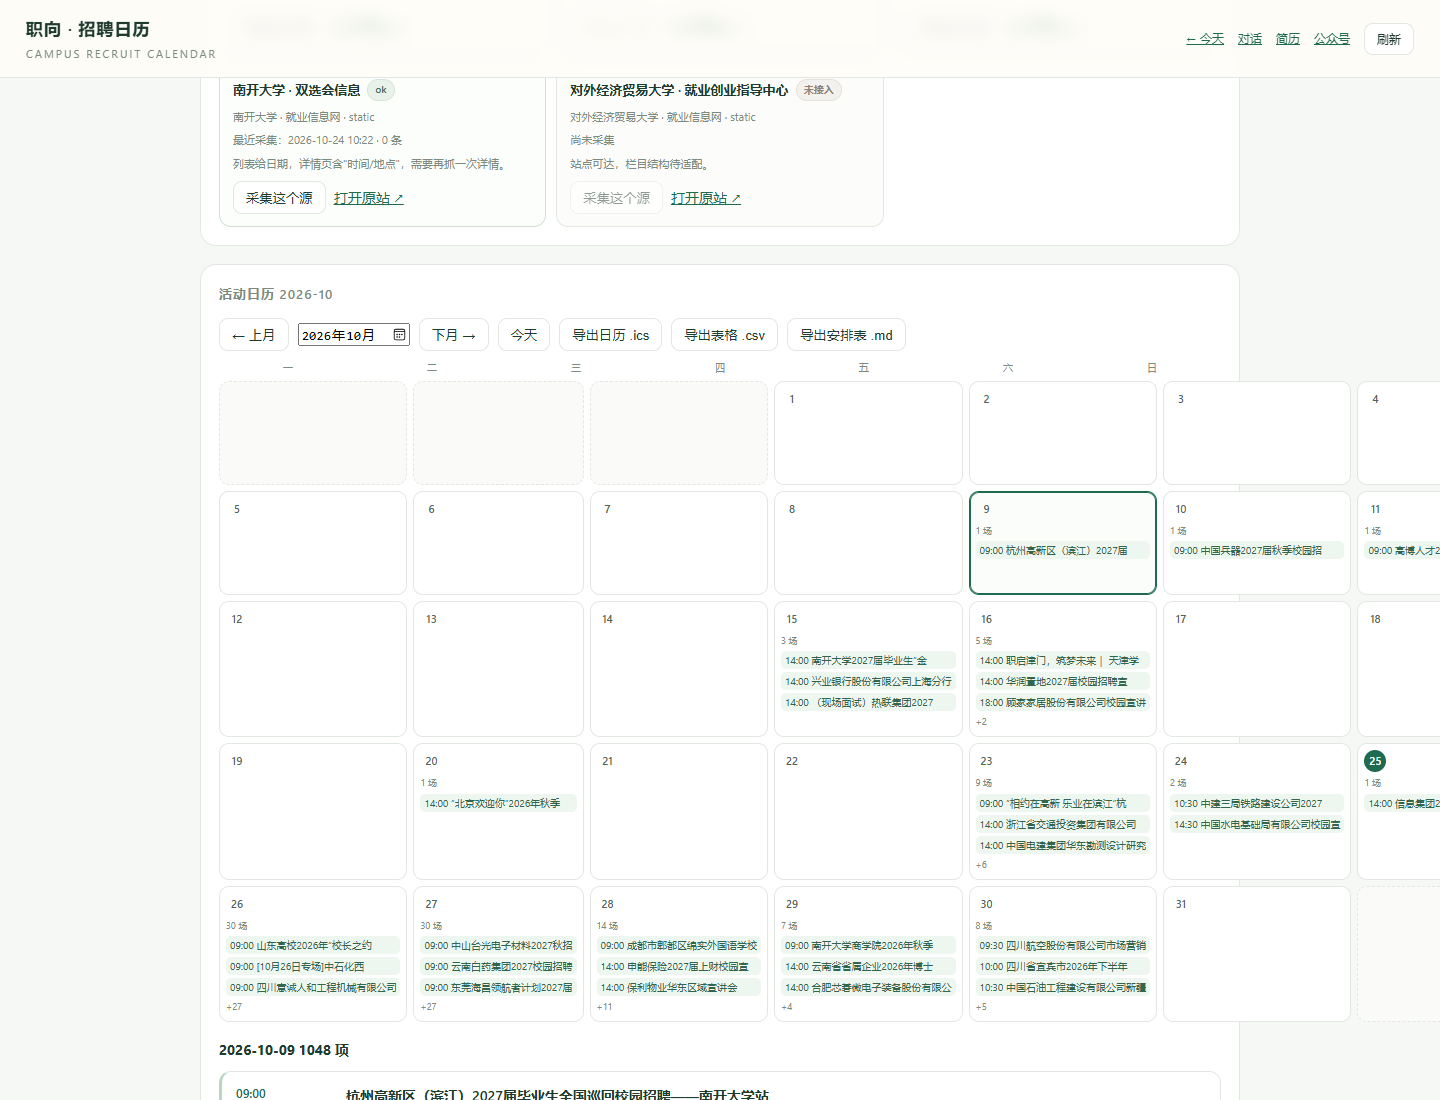
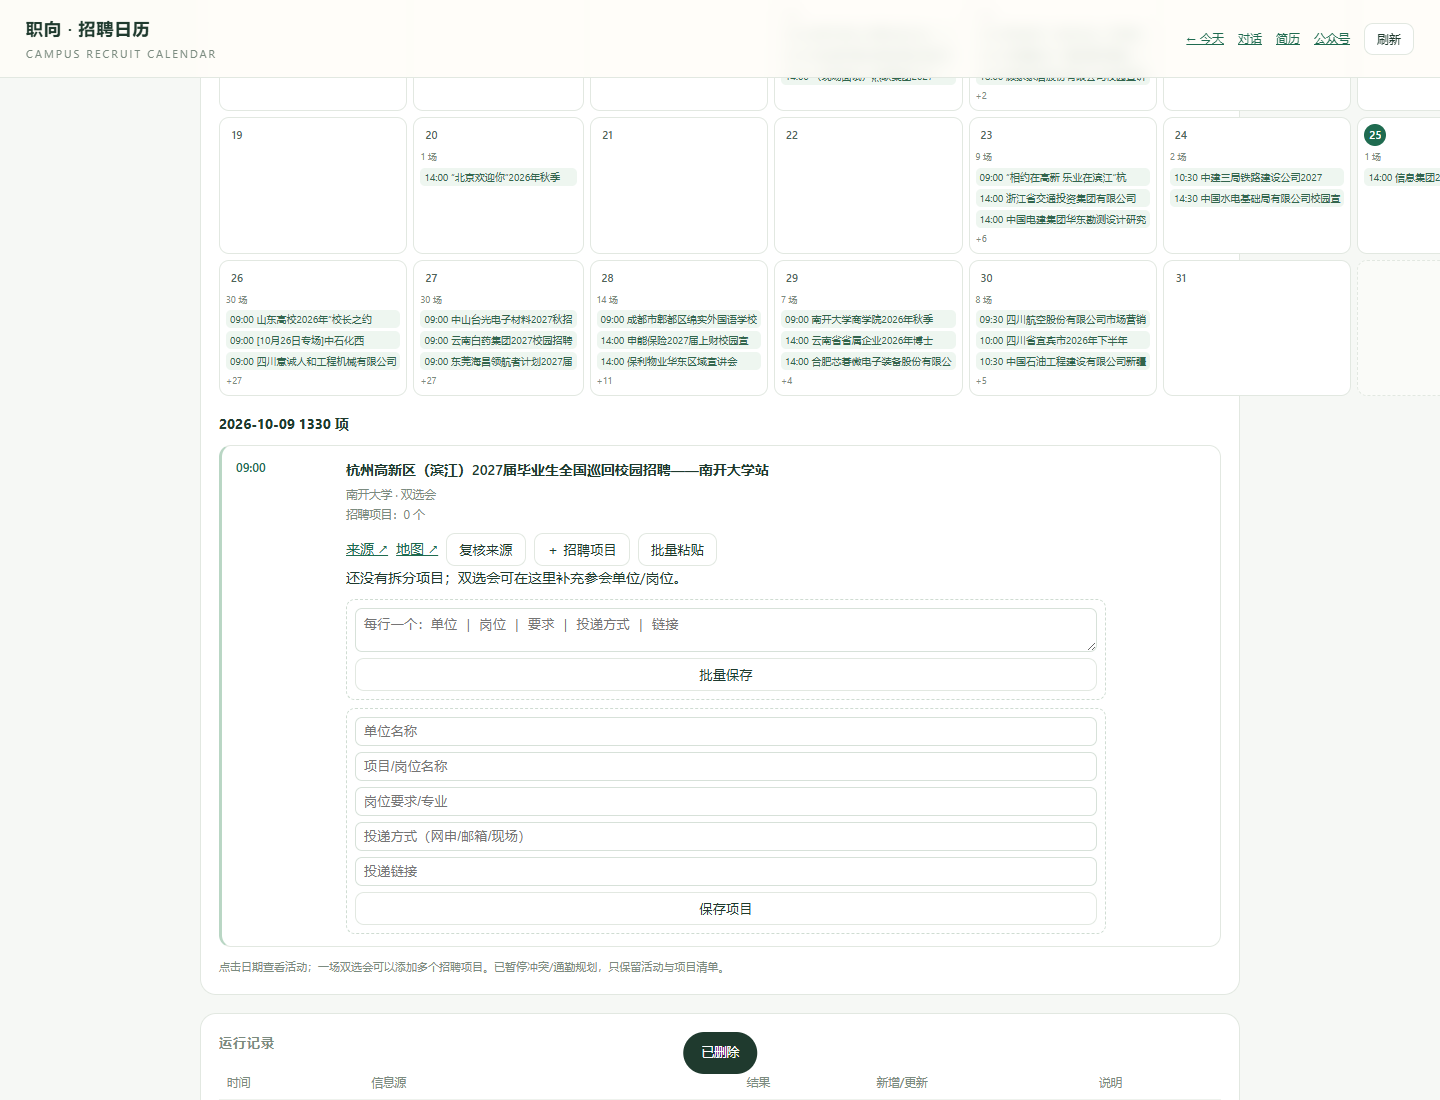
feat(recruit): bulk paste projects into an event
- add POST /api/recruit/projects/bulk (up to 100 lines)
- calendar event card adds bulk paste form
- 110 tests; docs 20 updated
- tag v3.1.2

diff --git a/src/web/recruit.html b/src/web/recruit.html
@@ -75,7 +75,8 @@ main{max-width:1080px;margin:0 auto;padding:22px 20px 80px}
 .project{border-left:3px solid #b9d6c4;background:#fbfdfb;padding:7px 9px;margin:6px 0;display:flex;justify-content:space-between;gap:8px;font-size:12px}
 .project .hint{font-size:10.5px;color:var(--muted)}
 .project-form{border:1px dashed #cfdcd2;border-radius:9px;padding:8px;margin-top:8px;display:grid;gap:6px}
-.project-form input{padding:6px 8px;border:1px solid #d7e1d9;border-radius:7px;font:12px inherit;width:100%}
+.project-form input,.bulk-form textarea{padding:6px 8px;border:1px solid #d7e1d9;border-radius:7px;font:12px inherit;width:100%}
+.bulk-form{border:1px dashed #cfdcd2;border-radius:9px;padding:8px;margin-top:8px;display:grid;gap:6px}
 @media(max-width:720px){.cal-cell{min-height:78px;padding:4px}.cal-chip{font-size:9px}.cal-head{font-size:9px}}
 @media(max-width:720px){.stats{grid-template-columns:repeat(2,1fr)}.ev{grid-template-columns:1fr}.ev .side{flex-direction:row;align-items:center}.ev time{font-size:12px}main{padding:16px 12px 70px}}
 dialog#manual-dialog{border:1px solid var(--line);border-radius:16px;padding:0;width:min(680px,92vw);max-height:88vh;overflow:auto;background:#fff;color:var(--ink);box-shadow:0 24px 70px #1f3a2e33}
@@ -246,7 +247,7 @@ function renderDayDetail(){
   const events=day.events.map(e=>{
     const projects=(e.projects||[]).map(p=>'<div class="project"><div><b>'+esc(p.company||'未填单位')+'</b> '+esc(p.title||'')+'<div class="hint">'+esc(p.positions||'')+(p.applyMode?' · '+esc(p.applyMode):'')+(p.applyUrl?' · '+esc(p.applyUrl):'')+'</div></div><button data-del-project="'+esc(p.id)+'">删除</button></div>').join('');
     const flags=[e.status==='possibly_removed'?'<span class="flag bad">可能撤下</span>':'',e.interviewStage?'<span class="flag">'+esc([...new Set([e.interviewStage,e.interviewType].filter(Boolean))].join(' · '))+'</span>':'',(e.crossSources||[]).length>1?'<span class="flag ok">多源收录</span>':''].filter(Boolean).join(' ');
-    return '<article class="ev"><time>'+esc(fmtTime(e.startAt))+(e.endAt?'–'+esc(fmtTime(e.endAt)):'')+'</time><div><p class="title">'+esc(e.title)+'</p><div class="meta">'+(e.company?'<b><a href="/companies?name='+encodeURIComponent(e.company)+'">'+esc(e.company)+'</a></b> · ':'')+esc(e.school)+' · '+esc(e.kind)+(e.venue?'<br>地点：'+esc(e.venue):'')+'<br>招聘项目：'+(e.projects||[]).length+' 个</div><div class="row">'+(e.sourceUrl?'<a href="'+esc(e.sourceUrl)+'" target="_blank" rel="noopener noreferrer">来源 ↗</a>':'')+'<a href="'+esc(mapFor(e))+'" target="_blank" rel="noopener noreferrer">地图 ↗</a><button data-verify="'+esc(e.id)+'">复核来源</button><button data-add-project="'+esc(e.id)+'">＋ 招聘项目</button></div><div class="projects">'+(projects||'<div class="hint">还没有拆分项目；双选会可在这里补充参会单位/岗位。</div>')+'</div><div class="project-form" data-form="'+esc(e.id)+'" hidden><input data-p-company placeholder="单位名称"><input data-p-title placeholder="项目/岗位名称"><input data-p-positions placeholder="岗位要求/专业"><input data-p-apply placeholder="投递方式（网申/邮箱/现场）"><input data-p-url placeholder="投递链接"><button data-save-project="'+esc(e.id)+'">保存项目</button></div></div><div class="side">'+flags+'</div></article>';
+    return '<article class="ev"><time>'+esc(fmtTime(e.startAt))+(e.endAt?'–'+esc(fmtTime(e.endAt)):'')+'</time><div><p class="title">'+esc(e.title)+'</p><div class="meta">'+(e.company?'<b><a href="/companies?name='+encodeURIComponent(e.company)+'">'+esc(e.company)+'</a></b> · ':'')+esc(e.school)+' · '+esc(e.kind)+(e.venue?'<br>地点：'+esc(e.venue):'')+'<br>招聘项目：'+(e.projects||[]).length+' 个</div><div class="row">'+(e.sourceUrl?'<a href="'+esc(e.sourceUrl)+'" target="_blank" rel="noopener noreferrer">来源 ↗</a>':'')+'<a href="'+esc(mapFor(e))+'" target="_blank" rel="noopener noreferrer">地图 ↗</a><button data-verify="'+esc(e.id)+'">复核来源</button><button data-add-project="'+esc(e.id)+'">＋ 招聘项目</button><button data-bulk-project="'+esc(e.id)+'">批量粘贴</button></div><div class="projects">'+(projects||'<div class="hint">还没有拆分项目；双选会可在这里补充参会单位/岗位。</div>')+'</div><div class="bulk-form" data-bulk="'+esc(e.id)+'" hidden><textarea data-bulk-text placeholder="每行一个：单位 | 岗位 | 要求 | 投递方式 | 链接"></textarea><button data-save-bulk="'+esc(e.id)+'">批量保存</button></div><div class="project-form" data-form="'+esc(e.id)+'" hidden><input data-p-company placeholder="单位名称"><input data-p-title placeholder="项目/岗位名称"><input data-p-positions placeholder="岗位要求/专业"><input data-p-apply placeholder="投递方式（网申/邮箱/现场）"><input data-p-url placeholder="投递链接"><button data-save-project="'+esc(e.id)+'">保存项目</button></div></div><div class="side">'+flags+'</div></article>';
   }).join('');
   el('#day-detail').innerHTML='<h3 style="font-size:14px;margin:0 0 8px">'+esc(day.date)+' <span class="hint">'+events.length+' 项</span></h3>'+events;
 }
@@ -332,6 +333,8 @@ el('#m-save').onclick=async()=>{
 };
 document.addEventListener('click',async e=>{
   const cell=e.target.closest('[data-date]');if(cell&&!cell.classList.contains('blank')){selectedDate=cell.dataset.date;renderCalendar();return}
+  const bulk=e.target.closest('[data-bulk-project]');if(bulk){const form=document.querySelector('[data-bulk="'+bulk.dataset.bulkProject+'"]');if(form)form.hidden=!form.hidden;return}
+  const saveBulk=e.target.closest('[data-save-bulk]');if(saveBulk){const form=saveBulk.closest('.bulk-form');try{const r=await api('projects/bulk',{eventId:saveBulk.dataset.saveBulk,text:form.querySelector('[data-bulk-text]').value});toast('已保存 '+r.count+' 个项目');await loadCalendar(calendar.month)}catch(err){toast(err.message)}return}
   const add=e.target.closest('[data-add-project]');if(add){const form=document.querySelector('[data-form="'+add.dataset.addProject+'"]');if(form)form.hidden=!form.hidden;return}
   const save=e.target.closest('[data-save-project]');if(save){const form=save.closest('.project-form');const eventId=save.dataset.saveProject;try{await api('projects',{eventId,company:form.querySelector('[data-p-company]').value,title:form.querySelector('[data-p-title]').value,positions:form.querySelector('[data-p-positions]').value,applyMode:form.querySelector('[data-p-apply]').value,applyUrl:form.querySelector('[data-p-url]').value});toast('项目已保存');await loadCalendar(calendar.month)}catch(err){toast(err.message)}return}
   const del=e.target.closest('[data-del-project]');if(del){if(!confirm('删除这个招聘项目？'))return;try{await api('projects/'+del.dataset.delProject+'/delete',{});toast('已删除');await loadCalendar(calendar.month)}catch(err){toast(err.message)}return}

diff --git a/docs/plan/18-最终交付清单.md b/docs/plan/18-最终交付清单.md
@@ -1,7 +1,7 @@
-# 18 · 最终交付清单（v3.1.1）
+# 18 · 最终交付清单（v3.1.2）
 
 > 这一篇是“交作业 / 给别人演示”的总入口：现在有什么、证据在哪、怎么跑、怎么回退。
-> 更新：2026-10-25 ｜ 版本：`v3.1.1` ｜ 测试：109 项 ｜ 文档：00–20
+> 更新：2026-10-25 ｜ 版本：`v3.1.2` ｜ 测试：109 项 ｜ 文档：00–20
 
 ---
 
@@ -34,7 +34,7 @@
 | 技能 | 3 个技能包（行程规划已移除） | `src/skills/` |
 | 记忆 | 会话 / 画像 / 任务 | `src/agent/memory.mjs` |
 | 部署 | 局域网、Tailscale、Docker、备份 | `docs/14` |
-| 测试 | 18 套件、109 项 | `npm test` |
+| 测试 | 18 套件、110 项 | `npm test` |
 | 文档 | 00–20 + 截图 + 示例 | `docs/README.md` |
 
 ---
@@ -54,7 +54,7 @@
 | 2.3 日历地图 | 排班/通勤暂停；月历看板 + 项目 + 高德链接 + ICS/CSV/MD | `/recruit`；`docs/20` |
 | 3.1 简历/面试 | 简历多版本、JD、投递、题库、回答、Word | `/resume`；`docs/13` |
 | 多设备 | 局域网实测、Tailscale 文档、Dockerfile | `docs/14` |
-| 版本控制 | main/dev + 18 个标签 | `git tag`；`docs/CHANGELOG.md` |
+| 版本控制 | main/dev + 19 个标签 | `git tag`；`docs/CHANGELOG.md` |
 | 平台读取 | 7 站统一入口、BOSS about:blank 恢复、截图 OCR、系统浏览器兜底 | `docs/19`；`tests/platform.test.mjs` |
 | 一对多 | 活动下挂招聘项目，日历看板展示 | `docs/20`；`tests/projects.test.mjs` |
 
@@ -84,7 +84,7 @@ src/web     5 个页面
 
 ## 5. 验收证据
 
-- **109 项测试**通过（`node --test ...`，或 `npm test`）；
+- **110 项测试**通过（`node --test ...`，或 `npm test`）；
 - `node scripts/check.mjs`：测试 + 体检 + 数据库检查全绿；
 - 真实数据：141 场活动、115 场未来、7 所学校、8 个已接入源；9 个公众号账号；
 - 能力面板：12 工具 / 4 技能；
@@ -119,6 +119,7 @@ src/web     5 个页面
 | `v3.0.2` | 刷新工作台截图 |
 | `v3.1.0` | 7 个登录型网站、截图 OCR、公众号、日历/项目 |
 | `v3.1.1` | 元素点击打开结果、7 站连通性检查 |
+| `v3.1.2` | 批量粘贴招聘项目 |
 
 回退任意模块：
 

diff --git a/docs/plan/15-需求对照与演示.md b/docs/plan/15-需求对照与演示.md
@@ -166,7 +166,7 @@
 3. **日历/项目**（45 秒）：切到月历 → 点日期 → 展开活动 → 添加一个招聘项目 → 导出 ICS。
 4. **对话**（90 秒）：`/chat` 问“这周成都有哪些宣讲会” → 调用 `career_recruit_events` 按日历列活动与项目 → 再问“按这个 JD 改简历”。
 5. **材料**（60 秒）：`/resume` → 简历版本 → 从对话保存 → 下载 Word → 投递阶段 → 面试准备题库与回答。
-6. **可靠性与回退**（30 秒）：`npm test` 109 项；`git tag` 列表；一条命令回退。
+6. **可靠性与回退**（30 秒）：`npm test` 110 项；`git tag` 列表；一条命令回退。
 
 ---
 

diff --git a/README.md b/README.md
@@ -1,6 +1,6 @@
 # 职向 v3 · 大学生线下求职智能体
 
-> **当前状态：`v3.1.1`；登录型网站支持元素点击/截图 OCR/连通性检查，公众号与日历项目已上线。**
+> **当前状态：`v3.1.2`；支持批量粘贴招聘项目；登录型网站/公众号/日历功能已上线。**
 > 先看：[最终交付清单](docs/plan/18-最终交付清单.md) · [平台与公众号](docs/plan/19-平台与公众号.md) · [日历与项目](docs/plan/20-日历与招聘项目.md) · [CHANGELOG](docs/plan/CHANGELOG.md)
 > 数据目录：`%LOCALAPPDATA%\ZhiXiang`（首次启动会自动迁移旧 `.data`）
 

diff --git a/docs/plan/CHANGELOG.md b/docs/plan/CHANGELOG.md
@@ -3,6 +3,15 @@
 > 每个阶段一行，方便你对照"什么时候改了什么、能不能回退"。
 > 回退：`git checkout <tag>` 或 `git reset --hard <tag>`（数据在 `%LOCALAPPDATA%\ZhiXiang`，不受影响）。
 
+## v3.1.2 · 2026-10-25
+
+**批量粘贴招聘项目**
+
+- 活动卡片新增「批量粘贴」：每行 `单位 | 岗位 | 要求 | 投递方式 | 链接`
+- 一次最多 100 行，自动跳过空行
+- 新增 1 项测试，共 110 项
+- 回退：`git reset --hard v3.1.1`
+
 ## v3.1.1 · 2026-10-25
 
 **平台元素点击与连通性检查**

diff --git a/docs/plan/13-简历与投递.md b/docs/plan/13-简历与投递.md
@@ -117,7 +117,7 @@ interview_preps(id, company, role, jd_text, content,
 - 浏览器实测：简历 1 份 2 版 → 新建版本变 3 版 → 对话保存变 4 版；投递 1 行，改阶段/删除正常；
 - 面试准备：3 道题，填写回答后保存 → 刷新仍在；从对话保存后列表变 2 条；
 - 能力面板：10 工具 / 4 技能；
-- 109 项测试通过，页面无 JS 报错。
+- 110 项测试通过，页面无 JS 报错。
 
 ---
 

diff --git a/docs/plan/20-日历与招聘项目.md b/docs/plan/20-日历与招聘项目.md
@@ -45,6 +45,7 @@ event_projects(
 - 点击日期，下方显示当天活动卡片；
 - 每张活动卡片显示“招聘项目 N 个”，可展开项目列表；
 - 「＋ 招聘项目」内联表单：单位、项目/岗位、要求、投递方式、投递链接；
+- 「批量粘贴」：每行 `单位 | 岗位 | 要求 | 投递方式 | 链接`，一次导入多个项目；
 - 项目可删除；
 - 月份切换、今天、导出 ICS/CSV/MD。
 

diff --git a/docs/plan/17-公司档案.md b/docs/plan/17-公司档案.md
@@ -96,4 +96,4 @@ companies(
 - 4 项测试：创建/同名合并/来源/删除、从对话保存、关联活动与投递、工具读取；
 - 浏览器实测：示例银行档案显示 1 条关联投递；从对话保存后列表 2 条并自动打开；
 - 页面无 JS 报错；
-- 全量测试 109 项。
+- 全量测试 110 项。

diff --git a/docs/plan/00-文件地图.md b/docs/plan/00-文件地图.md
@@ -307,7 +307,7 @@ src/server/app.mjs ──静态页 + token 注入
 ## 8. 验收命令
 
 ```bash
-npm test        # 109 项
+npm test        # 110 项
 npm run check   # 测试 + 体检 + 数据库
 npm run tools   # 列出 12 个工具
 npm run diag    # 七阶段模型体检
